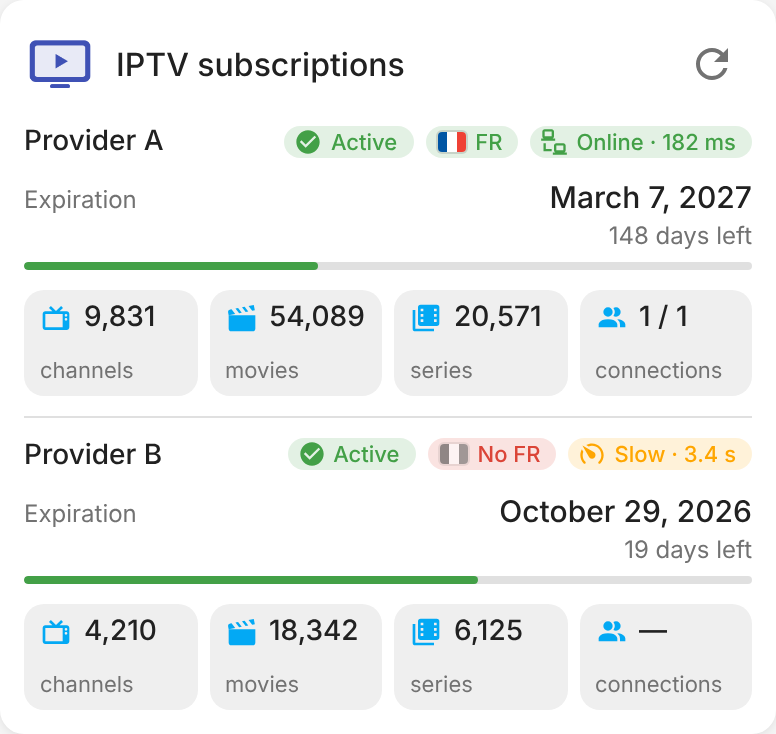
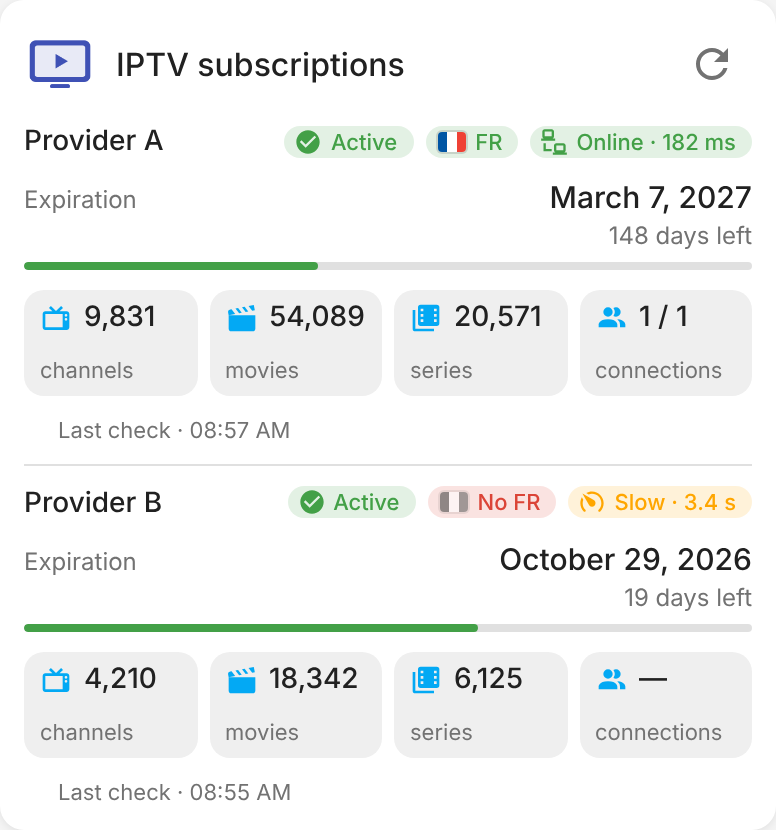
Store add/update time and show the last check (3.6.0) (#16)
added_at is stored when an account is added, updated_at each time its
credentials change (same-server update or reconfigure), exposed as two
timestamp sensors. New last_check timestamp sensor, also shown on the card
under each subscription.

Claude-Session: https://claude.ai/code/session_01Nef7oocvL8tyqa2wDZRCex

diff --git a/custom_components/iptv/frontend/iptv-card.js b/custom_components/iptv/frontend/iptv-card.js
@@ -8,7 +8,7 @@
  *
  * https://github.com/juju35/ha-iptv
  */
-var IPTV_CARD_VERSION = '3.5.0';
+var IPTV_CARD_VERSION = '3.6.0';
 var IPTV_DOMAIN = 'iptv';
 var IPTV_LOGO_URL = '/' + IPTV_DOMAIN + '/logo.png?v=' + IPTV_CARD_VERSION;
 
@@ -40,6 +40,7 @@ var IptvCardI18n = {
     french_on: 'FR',
     french_off: 'No FR',
     french_title: 'French lists',
+    last_check: 'Last check',
     health_ok: 'Online',
     health_degraded: 'Slow',
     health_unreachable: 'Unreachable',
@@ -75,6 +76,7 @@ var IptvCardI18n = {
     french_on: 'FR',
     french_off: 'Pas de FR',
     french_title: 'Listes françaises',
+    last_check: 'Dernier contrôle',
     health_ok: 'En ligne',
     health_degraded: 'Lent',
     health_unreachable: 'Injoignable',
@@ -248,8 +250,9 @@ class IptvCard extends HTMLElement {
   _health(ids) {
     var st = ids.health && this._hass.states[ids.health];
     if (!st || st.state === 'unknown' || st.state === 'unavailable') return null;
-    var ms = st.attributes && st.attributes.response_time_ms;
-    return { status: st.state, ms: ms == null ? null : Number(ms) };
+    var attrs = st.attributes || {};
+    var ms = attrs.response_time_ms;
+    return { status: st.state, ms: ms == null ? null : Number(ms), at: attrs.last_check || null };
   }
 
   _view(d) {
@@ -364,6 +367,19 @@ class IptvCard extends HTMLElement {
         </div>`;
     };
 
+    var fmtCheck = (iso) => {
+      var when = new Date(iso);
+      if (isNaN(when.getTime())) return '';
+      var sameDay = when.toDateString() === new Date().toDateString();
+      return sameDay
+        ? when.toLocaleTimeString(locale, { hour: '2-digit', minute: '2-digit' })
+        : when.toLocaleString(locale, { day: 'numeric', month: 'short', hour: '2-digit', minute: '2-digit' });
+    };
+    var checkedLine = (h) =>
+      h && h.at
+        ? `<div class="checked" data-entity="last_check"><ha-icon icon="mdi:clock-outline"></ha-icon>${esc(this._t('last_check'))} · ${esc(fmtCheck(h.at))}</div>`
+        : '';
+
     var body;
     var status = '';
     if (!this._hass) {
@@ -373,20 +389,24 @@ class IptvCard extends HTMLElement {
     } else if (!multi) {
       // One subscription: pills under the card title, as before
       var v = this._view(this._data(subs[0].ids));
-      status = chips(v, this._health(subs[0].ids), this._french(subs[0].ids));
+      var h0 = this._health(subs[0].ids);
+      status = chips(v, h0, this._french(subs[0].ids));
       body = '<div class="sect" data-sub="0">' +
-        (v ? details(v) : '<div class="msg err">' + this._t('unavailable') + '</div>') + '</div>';
+        (v ? details(v) : '<div class="msg err">' + this._t('unavailable') + '</div>') +
+        checkedLine(h0) + '</div>';
     } else {
       // Several subscriptions: one section each, named after its device
       body = subs.map((sub, i) => {
         var v = this._view(this._data(sub.ids));
+        var h = this._health(sub.ids);
         return `
           <div class="sect multi" data-sub="${i}">
             <div class="sect-head">
               <div class="sect-name">${esc(sub.name)}</div>
-              ${chips(v, this._health(sub.ids), this._french(sub.ids))}
+              ${chips(v, h, this._french(sub.ids))}
             </div>
             ${v ? details(v) : '<div class="msg err">' + this._t('unavailable') + '</div>'}
+            ${checkedLine(h)}
           </div>`;
       }).join('');
     }
@@ -405,6 +425,7 @@ class IptvCard extends HTMLElement {
                 color: var(--c); background: color-mix(in srgb, var(--c) 15%, transparent); --mdc-icon-size: 14px; }
         .chip.idle { padding-left: 10px; }
         .chip.fr { padding-left: 6px; gap: 5px; }
+        .checked { display: flex; align-items: center; gap: 4px; color: var(--secondary-text-color); font-size: 11px; --mdc-icon-size: 13px; }
         .flag { width: 14px; height: 10px; border-radius: 2px; flex: none; box-shadow: 0 0 0 1px rgba(0,0,0,.12);
                 background: linear-gradient(90deg, #0055a4 0 33.3%, #fff 33.3% 66.6%, #ef4135 66.6%); }
         .flag.off { filter: grayscale(1); opacity: .6; }

diff --git a/custom_components/iptv/sensor.py b/custom_components/iptv/sensor.py
@@ -20,7 +20,7 @@ from homeassistant.helpers.dispatcher import async_dispatcher_connect
 from homeassistant.helpers.entity_platform import AddConfigEntryEntitiesCallback
 from homeassistant.util import dt as dt_util
 
-from .const import HEALTH_STATES, STATUSES
+from .const import CONF_ADDED_AT, CONF_UPDATED_AT, HEALTH_STATES, STATUSES
 from .coordinator import IptvConfigEntry
 from .entity import IptvEntity
 from .health import health_signal
@@ -121,7 +121,13 @@ async def async_setup_entry(
     coordinator = entry.runtime_data
     async_add_entities(
         [IptvSensor(coordinator, desc) for desc in SENSORS]
-        + [IptvHealthSensor(coordinator), IptvResponseTimeSensor(coordinator)]
+        + [
+            IptvHealthSensor(coordinator),
+            IptvResponseTimeSensor(coordinator),
+            IptvLastCheckSensor(coordinator),
+            IptvConfigTimeSensor(coordinator, "added", CONF_ADDED_AT),
+            IptvConfigTimeSensor(coordinator, "updated", CONF_UPDATED_AT),
+        ]
     )
 
 
@@ -207,3 +213,37 @@ class IptvResponseTimeSensor(_IptvHealthEntity):
     @property
     def native_value(self) -> int | None:
         return self._health.latency_ms
+
+
+class IptvLastCheckSensor(_IptvHealthEntity):
+    """Moment of the last health check."""
+
+    _attr_device_class = SensorDeviceClass.TIMESTAMP
+    _attr_entity_category = EntityCategory.DIAGNOSTIC
+
+    def __init__(self, coordinator) -> None:
+        super().__init__(coordinator, "last_check")
+
+    @property
+    def available(self) -> bool:
+        return self._health.checked_at is not None
+
+    @property
+    def native_value(self) -> datetime | None:
+        return self._health.checked_at
+
+
+class IptvConfigTimeSensor(IptvEntity, SensorEntity):
+    """When the account was added or last updated (from the config entry)."""
+
+    _attr_device_class = SensorDeviceClass.TIMESTAMP
+    _attr_entity_category = EntityCategory.DIAGNOSTIC
+
+    def __init__(self, coordinator, key: str, data_key: str) -> None:
+        super().__init__(coordinator, key)
+        self._data_key = data_key
+
+    @property
+    def native_value(self) -> datetime | None:
+        raw = self.coordinator.config_entry.data.get(self._data_key)
+        return dt_util.parse_datetime(raw) if raw else None

diff --git a/custom_components/iptv/config_flow.py b/custom_components/iptv/config_flow.py
@@ -43,12 +43,14 @@ from .api import (
     valid_mac,
 )
 from .const import (
+    CONF_ADDED_AT,
     CONF_HEALTH_INTERVAL,
     CONF_MAC,
     CONF_NOTIFY_SERVICE,
     CONF_PROVIDER,
     CONF_NOTIFY_DAYS,
     CONF_SCAN_INTERVAL,
+    CONF_UPDATED_AT,
     DEFAULT_HEALTH_INTERVAL,
     DEFAULT_NOTIFY_DAYS,
     DEFAULT_SCAN_INTERVAL,
@@ -164,7 +166,9 @@ class IptvConfigFlow(ConfigFlow, domain=DOMAIN):
             e for e in self._async_current_entries(include_ignore=False)
             if CONF_URL in e.data and server_key(e.data[CONF_URL]) == server
         ]
+        now = dt_util.utcnow().replace(microsecond=0).isoformat()
         if not same:
+            data = {**data, CONF_ADDED_AT: now}
             self._notify(title, data, updated=False)
             return self.async_create_entry(title=title, data=data)
         existing = min(same, key=_entry_validity)
@@ -173,6 +177,11 @@ class IptvConfigFlow(ConfigFlow, domain=DOMAIN):
         placeholders = {"title": existing.title, "current": _fmt(current), "new": _fmt(new)}
         if new <= current:
             return self.async_abort(reason="existing_longer", description_placeholders=placeholders)
+        data = {
+            **data,
+            CONF_ADDED_AT: existing.data.get(CONF_ADDED_AT, now),
+            CONF_UPDATED_AT: now,
+        }
         self.hass.config_entries.async_update_entry(
             existing,
             unique_id=self.unique_id,
@@ -321,6 +330,8 @@ class IptvConfigFlow(ConfigFlow, domain=DOMAIN):
             else:
                 errors = await self._check_xtream(user_input)
             if not errors:
+                user_input[CONF_ADDED_AT] = entry.data.get(CONF_ADDED_AT)
+                user_input[CONF_UPDATED_AT] = dt_util.utcnow().replace(microsecond=0).isoformat()
                 return self.async_update_reload_and_abort(entry, data=user_input)
         return self.async_show_form(
             step_id="reconfigure",

diff --git a/scripts/screenshots.py b/scripts/screenshots.py
@@ -91,7 +91,7 @@ SUBSCRIPTIONS = {
         "channels": ("sensor", "9831"),
         "movies": ("sensor", "54089"),
         "series": ("sensor", "20571"),
-        "health": ("sensor", "ok", {"response_time_ms": 182}),
+        "health": ("sensor", "ok", {"response_time_ms": 182, "last_check": "2026-10-10T08:57:00+02:00"}),
         "french_lists": ("binary_sensor", "on"),
     }),
     # A Stalker (MAC) account: no connection counts and no start date (the bar is estimated).
@@ -105,7 +105,7 @@ SUBSCRIPTIONS = {
         "channels": ("sensor", "4210"),
         "movies": ("sensor", "18342"),
         "series": ("sensor", "6125"),
-        "health": ("sensor", "degraded", {"response_time_ms": 3420}),
+        "health": ("sensor", "degraded", {"response_time_ms": 3420, "last_check": "2026-10-10T08:55:00+02:00"}),
         "french_lists": ("binary_sensor", "off"),
     }),
 }

diff --git a/custom_components/iptv/const.py b/custom_components/iptv/const.py
@@ -1,7 +1,7 @@
 """Constants for the IPTV integration."""
 
 DOMAIN = "iptv"
-VERSION = "3.5.0"
+VERSION = "3.6.0"
 
 CONF_SCAN_INTERVAL = "scan_interval"
 DEFAULT_SCAN_INTERVAL = 60  # minutes
@@ -26,6 +26,9 @@ CONF_PROVIDER = "provider"
 CONF_MAC = "mac"
 # Add form only, not stored: notify service that receives the connection details
 CONF_NOTIFY_SERVICE = "notify_service"
+# Stored in the entry data: when the account was added / last updated (ISO 8601)
+CONF_ADDED_AT = "added_at"
+CONF_UPDATED_AT = "updated_at"
 PROVIDER_XTREAM = "xtream"
 PROVIDER_STALKER = "stalker"
 PROVIDERS = [PROVIDER_XTREAM, PROVIDER_STALKER]

diff --git a/README.md b/README.md
@@ -140,6 +140,9 @@ Each account is a device named after its **server** (the host of the URL, e.g. `
 | `binary_sensor.<account>_french_lists` | On when the provider has French categories (live, VOD or series); attributes `live`, `vod`, `series` (French category counts) and `examples` |
 | `sensor.<account>_health` | Health check: `ok`, `degraded` (answer slower than 3 s), `auth_failed` or `unreachable`; attributes `response_time_ms`, `last_check`, `error` |
 | `sensor.<account>_response_time` | Response time of the last health check, in ms (diagnostic) |
+| `sensor.<account>_last_check` | Moment of the last health check (timestamp, diagnostic) |
+| `sensor.<account>_added` | When the account was added (timestamp, diagnostic) |
+| `sensor.<account>_updated` | When the account's credentials were last changed (timestamp, diagnostic) |
 
 Example automation, a reminder 7 days before expiration:
 
@@ -181,7 +184,7 @@ devices:
 | `warning_days` | ❌ | `7` | Turns orange when fewer days than this are left |
 | `language` | ❌ | Auto | Force language: `en` or `fr` (auto-detects from HA settings) |
 
-Each subscription shows a French flag pill (**FR** in green when French lists were found, **No FR** in red otherwise) and a health pill next to its status: **Online** with the response time (green), **Slow** above 3 s (orange), **Unreachable** (red). The ⟳ button asks the integration to query every shown server and run a health check right away.
+Each subscription shows a French flag pill (**FR** in green when French lists were found, **No FR** in red otherwise), a health pill next to its status, and the moment of its last health check: **Online** with the response time (green), **Slow** above 3 s (orange), **Unreachable** (red). The ⟳ button asks the integration to query every shown server and run a health check right away.
 
 ## Screenshots
 

diff --git a/CHANGELOG.md b/CHANGELOG.md
@@ -1,5 +1,11 @@
 # Changelog
 
+## 3.6.0
+
+### What's new
+- The date and time of the action are stored when an account is added (`added_at`) and each time its credentials change — same-server update or reconfigure (`updated_at`). Two diagnostic timestamp sensors expose them: `sensor.<account>_added` and `sensor.<account>_updated`.
+- New `sensor.<account>_last_check` (timestamp) with the moment of the last health check, also shown on the card under each subscription.
+
 ## 3.5.0
 
 ### Changes
